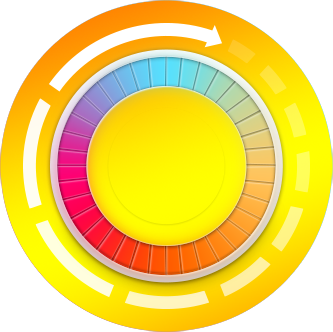
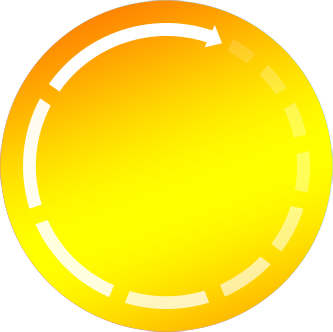
修改电池行为，按钮行为

Changed region(s): [[0.1201, 0.1205, 0.8709, 0.8735]]

diff --git a/asp/css/style.css b/asp/css/style.css
@@ -14,7 +14,7 @@ body{overflow: hidden;margin: 0;padding: 0;}
 	0%{opacity:0;
 	-webkit-transform:translateX(-600px)}
 	100%{opacity:1;
-	-webkit-transform:translateX(0)}}	
+	-webkit-transform:translateX(0)}}
 .start{position: absolute;top: 992px;left:285px; border:1px solid #fff; border-radius:50%; text-align:center; cursor:pointer; box-shadow:0 10px 20px rgba(0,0,0,0); background-image: -webkit-gradient(linear, left top, left bottom, from(#6cc3fe), to(#fff));
     -webkit-animation-timing-function: ease-in-out;
     -webkit-animation-name: breathe;
@@ -36,11 +36,13 @@ body{overflow: hidden;margin: 0;padding: 0;}
 	100%{opacity:1;
 	-webkit-transform:translateX(0)}}
 .description{width: 362px;height: 180px;color: #fff;font-size: 36px;position: absolute;top:376px;right: 75px;line-height: 44px;}
-.circleBtn{position: absolute;left:183px;top:332px;/* position: relative; */background: transparent;height: 578px;width: 368px;margin:220px auto;border-bottom-right-radius: 200px;border-bottom-left-radius: 200px;border-bottom: 5px dashed #fff;border-left:5px dashed #fff;}
+.circleBtn{position: absolute;left:183px;top:332px;/* position: relative; */background: transparent;height: 578px;width: 368px;margin:220px auto;/* border-bottom-right-radius: 200px;border-bottom-left-radius: 200px;border-bottom: 5px dashed #fff;border-left:5px dashed #fff; */}
+.line_before{position: absolute;left:-2px;top:16px;height: 100%;width: 100%}
 .outer_circle{position: relative;}
-.rotate{position: relative;top:213px;width: 368px;height: 368px}
-.rotate img{position: absolute;left: 20px}
-.rotate .click{position: absolute;left:80px;top:80px;}
+.rotate{position: absolute;top:213px;width: 368px;height: 368px}
+.rotate .outer_circle{position: absolute;left: 20px}
+.color_circle{position: absolute;left:60px;top:49px;}
+.rotate .click{position: absolute;left:104px;top:91px;}
 .elect{display: block;height: 20px;width:8px;background:#f39b00;position: absolute;right: -10px;top:50%;margin-top: -10px;opacity: 0;}
 .icon-play {
   -moz-animation: spin 2s infinite linear;
@@ -71,7 +73,7 @@ body{overflow: hidden;margin: 0;padding: 0;}
 .otercir_bor{width: 605px;height: 605px;border:2px solid #cf3a20;position: absolute;top:95px;left:-120px;border-radius: 50%;
 	-webkit-animation-timing-function: ease-in-out;
     -webkit-animation-name: shiningbor;
-    -webkit-animation-duration: 2700ms;
+    -webkit-animation-duration: 3200ms;
     -webkit-animation-iteration-count: infinite;
     -webkit-animation-direction: alternate;
 }
@@ -81,7 +83,7 @@ body{overflow: hidden;margin: 0;padding: 0;}
 }
 .inercir_bor{width: 478px;height: 478px;border:2px solid #cf3a20;position: absolute;top:162px;left:-51px;border-radius: 50%;	-webkit-animation-timing-function: ease-in-out;
     -webkit-animation-name: shiningbor2;
-    -webkit-animation-duration: 2700ms;
+    -webkit-animation-duration: 3200ms;
     -webkit-animation-iteration-count: infinite;
     -webkit-animation-direction: alternate;
 }
@@ -104,7 +106,7 @@ body{overflow: hidden;margin: 0;padding: 0;}
     100% { opacity: 1; box-shadow:0px 0px 10px 5px #f2c99a;}
 }
 .electric{width:112px;height:15px;background: orange;display: block;margin:5px auto;}
-.pecent_num{position: absolute;top:150px;left:50px;font-size:30px;color: #fff;font-style: normal; }
+.pecent_num{position: absolute;top:150px;left:50px;font-size:30px;color: #fff;font-style: normal; z-index: 10000}
 .bg_box{width: 100%;height: 100%;overflow: hidden;position: absolute;z-index: 1000;}
 .bg_box	img{width: 100%;height: 100%;display: block;}
 /* 第三页 */
